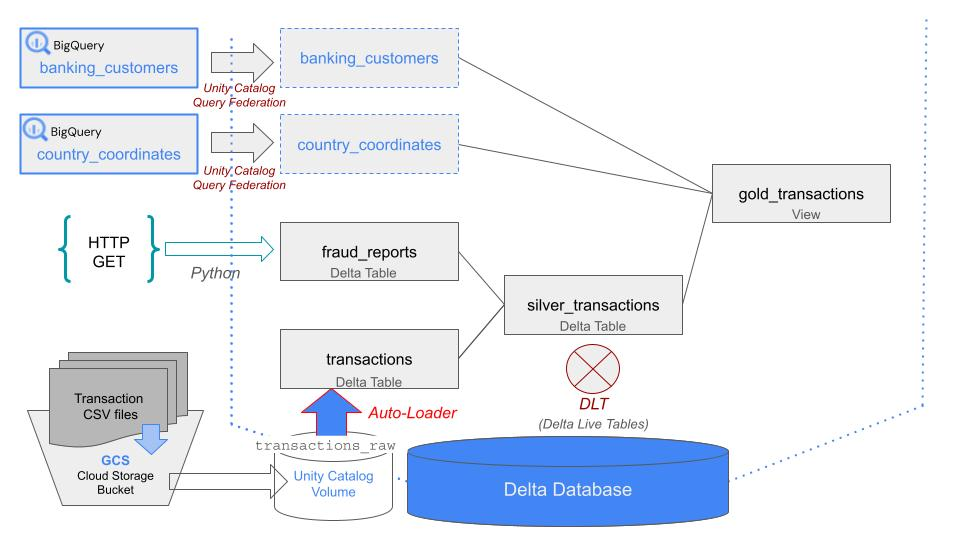
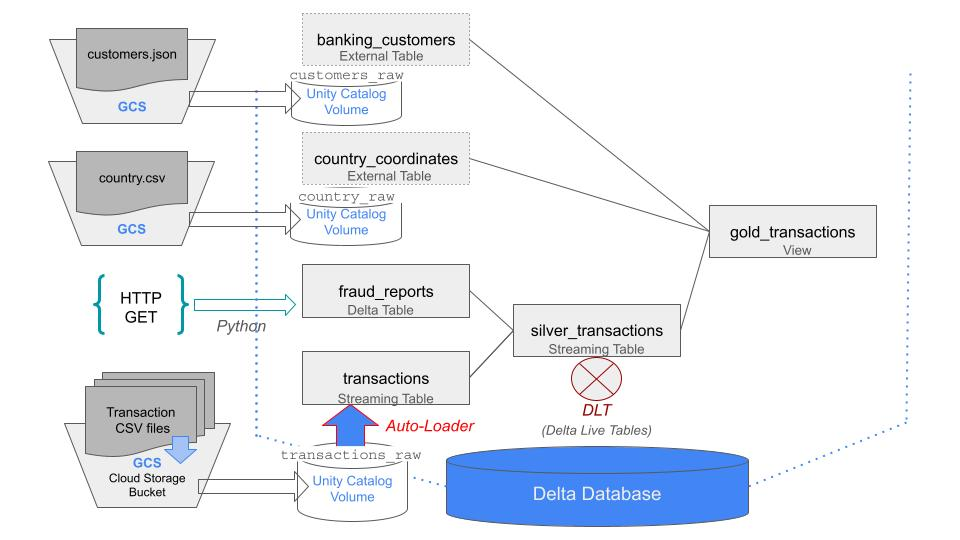
README and diagram updates

diff --git a/README.md b/README.md
@@ -27,11 +27,13 @@
 Pre: Clone the git repo in the Workspace.
 
 1. Stage the `banking_customers` and `country_coordinates` data in separate folders in a GCS bucket.
-2. Prepare a GCS bucket and folder for loading the `transactions` data into - call this folder `bronze_transactions`.
+2. Prepare a GCS bucket and folder for loading the `transactions` data into - call this folder `transactions`.
 3. Create three Unity Catalog Volumes to load the three different data-sets from: `transactions_raw`, `country_coordinates`, `banking_customers`
    + Follow the guide in `./notebooks/setup_volume_gcs` to do this.   
 4. Setup the `fraud_reports` table: `notebooks/setup_fraud_reports`
-5. Create a DLT pipeline, following the instructions in **TBC** and using `notebooks/setup_silver_transactions_pipeline_DLT.sql` as the pipeline Source code. 
+5. Use the notebook `./notebooks/setup_reference_data_ext` to set up some external tables mapped to the external volume locations.
+6. Create a DLT pipeline, following the instructions in **TBC** and using `notebooks/setup_silver_transactions_pipeline_DLT.sql` as the pipeline Source code. 
+7. Create the gold view using `./notebooks/setup_gold_transactions_view`
 
 
 Template GCS or S3 bucket structure:
